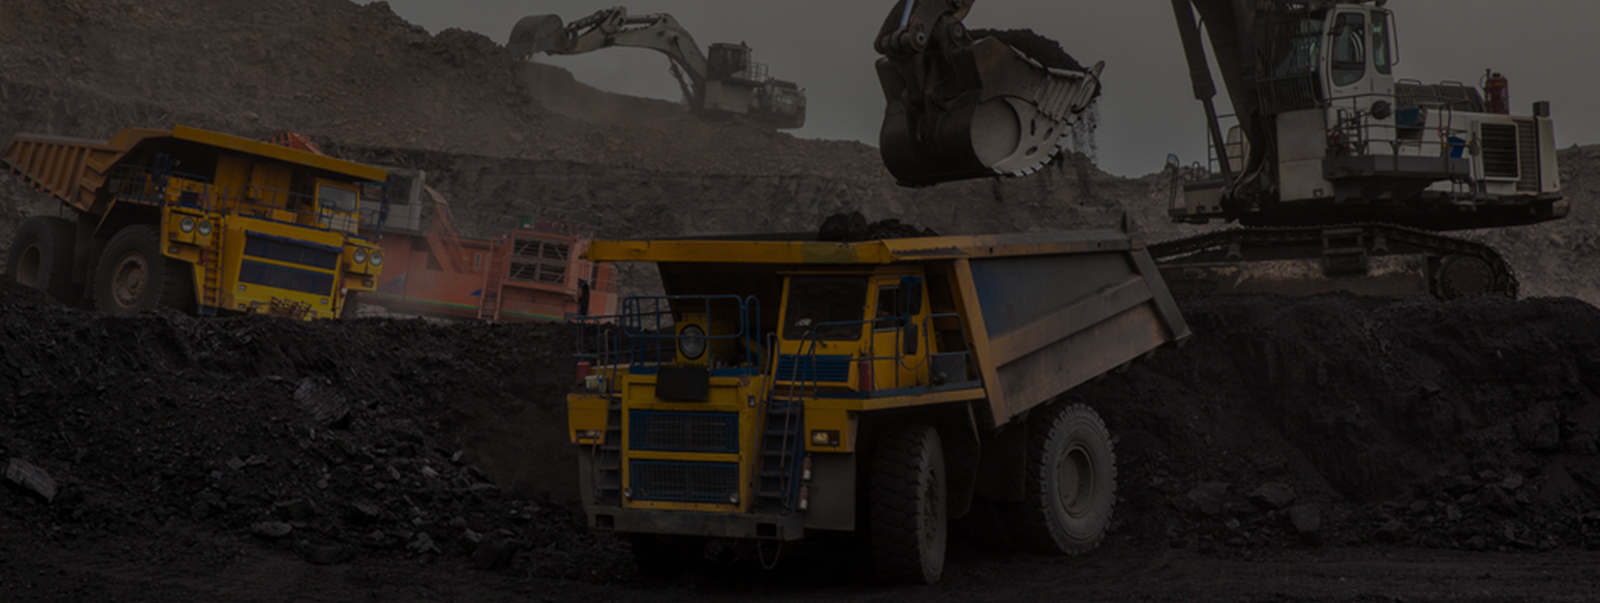
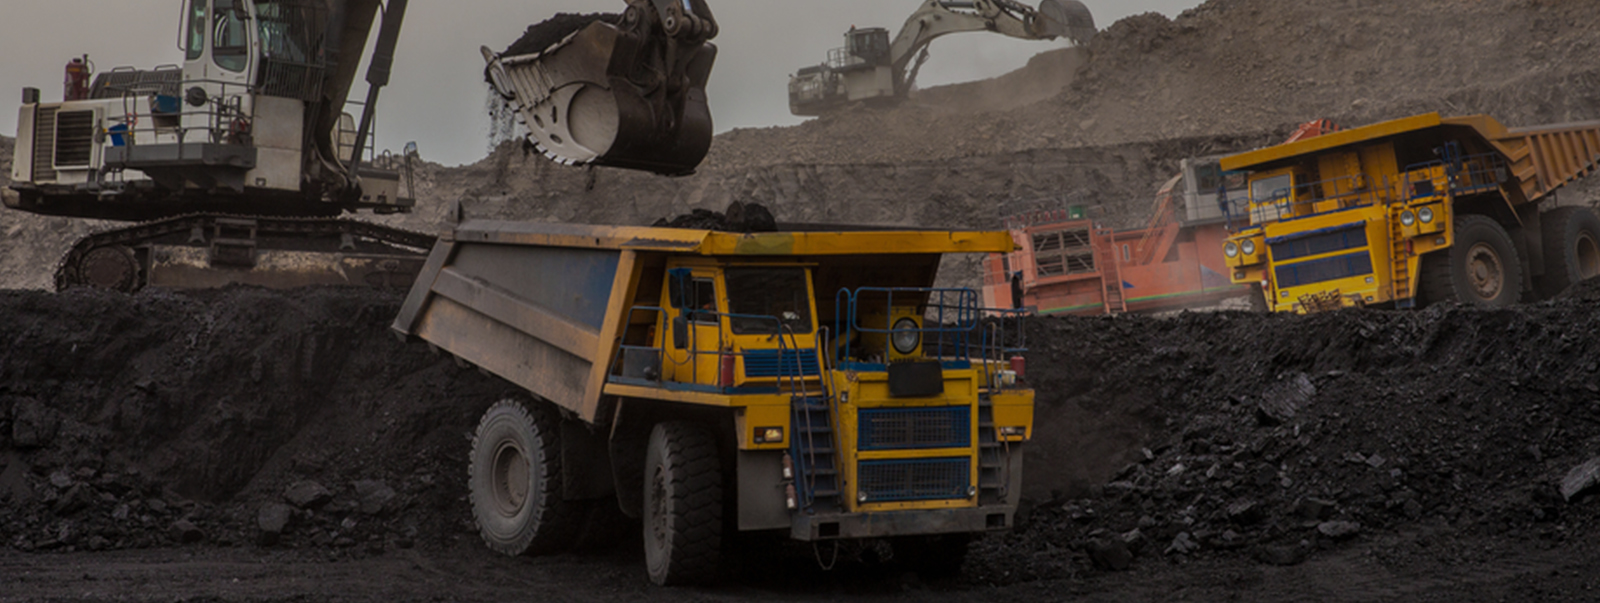
16-12-2020 1:44PM

diff --git a/src/components/all.scss b/src/components/all.scss
@@ -1278,7 +1278,7 @@ section.service-section-4
  .service-block-two .inner-box .icon-box {
   position: relative;
   width: 70px;
-  height: 70px;
+  height: 71px;
   overflow: hidden;
   margin-bottom: 20px;
 
@@ -1291,7 +1291,7 @@ section.service-section-4
 
  .service-block-two .inner-box:hover .icon-box img {
   position: relative;
-  top: -71px;
+  top: -69px;
 }
 
 section.service-section-4 .service-card p

diff --git a/src/components/Home/Homesection8.js b/src/components/Home/Homesection8.js
@@ -1,7 +1,7 @@
 import React, { Component } from 'react';
 import { Container,Image } from 'react-bootstrap';
 import { Link, StaticQuery, graphql } from 'gatsby'
-import Banner from '../../images/banner-1-3.jpg'
+import Banner from '../../images/diagram-banner.jpg'
 class HomeSection8 extends Component {
      
     render() {
